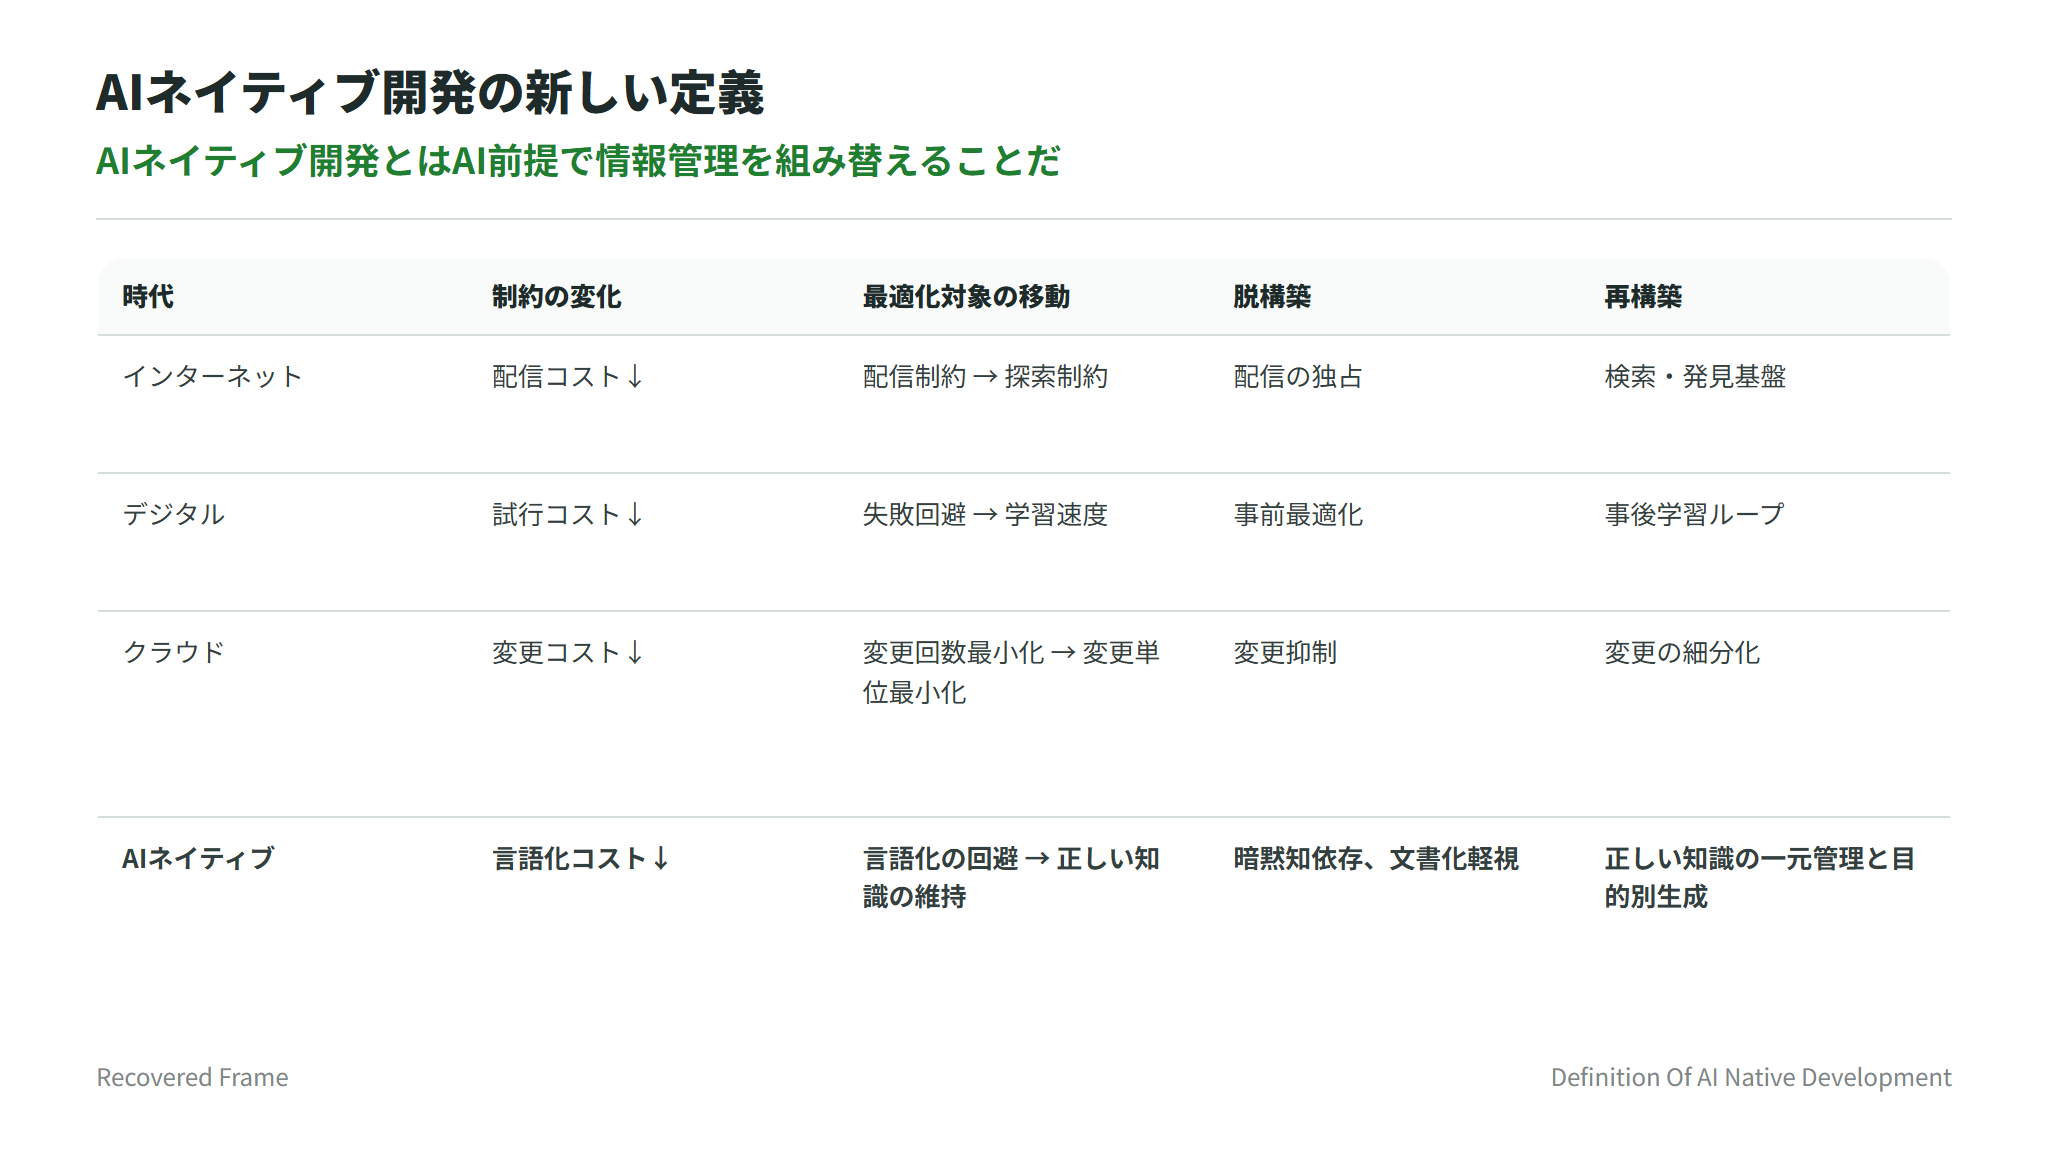
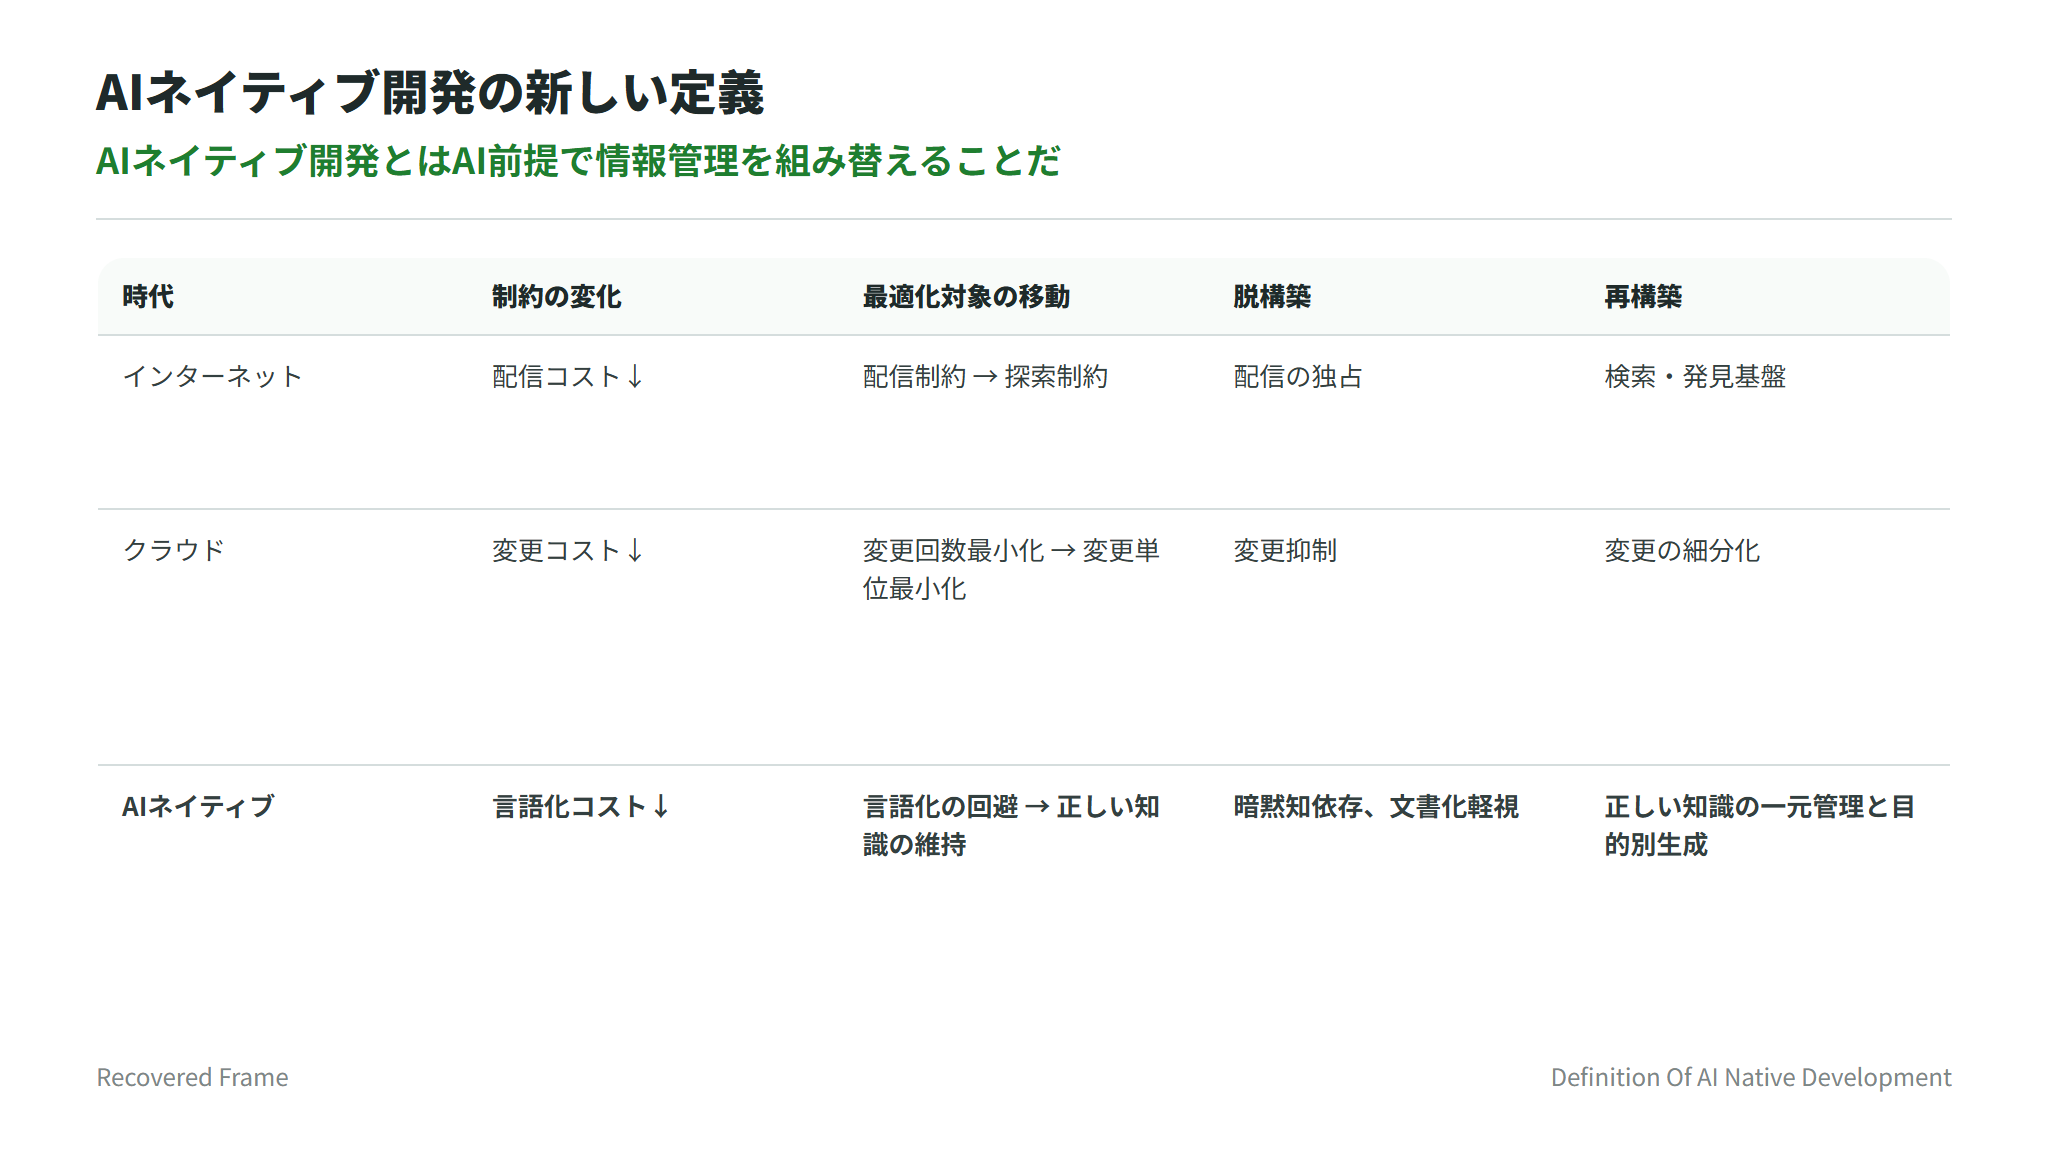
おｋ

diff --git a/docs/projects/20260330_01_AI使い方講義資料作成/clo/prompts/section-6/main-6-04.html b/docs/projects/20260330_01_AI使い方講義資料作成/clo/prompts/section-6/main-6-04.html
@@ -25,7 +25,6 @@
         </thead>
         <tbody>
           <tr><td>インターネット</td><td>配信コスト↓</td><td>配信制約 → 探索制約</td><td>配信の独占</td><td>検索・発見基盤</td></tr>
-          <tr><td>デジタル</td><td>試行コスト↓</td><td>失敗回避 → 学習速度</td><td>事前最適化</td><td>事後学習ループ</td></tr>
           <tr><td>クラウド</td><td>変更コスト↓</td><td>変更回数最小化 → 変更単位最小化</td><td>変更抑制</td><td>変更の細分化</td></tr>
           <tr><td><strong>AIネイティブ</strong></td><td><strong>言語化コスト↓</strong></td><td><strong>言語化の回避 → 正しい知識の維持</strong></td><td><strong>暗黙知依存、文書化軽視</strong></td><td><strong>正しい知識の一元管理と目的別生成</strong></td></tr>
         </tbody>

diff --git a/docs/slide/prompts/section-6/main-6-04.html b/docs/slide/prompts/section-6/main-6-04.html
@@ -25,7 +25,6 @@
         </thead>
         <tbody>
           <tr><td>インターネット</td><td>配信コスト↓</td><td>配信制約 → 探索制約</td><td>配信の独占</td><td>検索・発見基盤</td></tr>
-          <tr><td>デジタル</td><td>試行コスト↓</td><td>失敗回避 → 学習速度</td><td>事前最適化</td><td>事後学習ループ</td></tr>
           <tr><td>クラウド</td><td>変更コスト↓</td><td>変更回数最小化 → 変更単位最小化</td><td>変更抑制</td><td>変更の細分化</td></tr>
           <tr><td><strong>AIネイティブ</strong></td><td><strong>言語化コスト↓</strong></td><td><strong>言語化の回避 → 正しい知識の維持</strong></td><td><strong>暗黙知依存、文書化軽視</strong></td><td><strong>正しい知識の一元管理と目的別生成</strong></td></tr>
         </tbody>

diff --git a/docs/projects/20260330_01_AI使い方講義資料作成/clo/illustrations/section-6/illustration.md b/docs/projects/20260330_01_AI使い方講義資料作成/clo/illustrations/section-6/illustration.md
@@ -55,7 +55,7 @@ Professional presentation slide showing a two-layer architecture diagram. Title:
 - Accent: #7B4BAB (purple)
 **プロンプト**:
 ```
-Professional presentation slide with the title "AIネイティブ開発の定義 — 第0章フレーム回収" in navy. A comparison table with 5 columns: "時代", "制約の変化", "最適化対象の移動", "脱構造", "再構築". Four rows for: "インターネットN", "デジタルN", "クラウドN", and "AIネイティブ". The first three rows are in light gray background. The fourth row "AIネイティブ" is highlighted with a purple background and white text, containing: "言語化コスト↓", "言語化の回避 → 正しい知識の維持", "暗黙知依存、文書化軽視", "正しい知識の一元管理と目的別生成". A subtle decorative arrow on the left side connecting all four rows from top to bottom to show historical progression. White background, navy (#1B2A4A) text, purple (#7B4BAB) highlight for the AIネイティブ row. All text in Japanese.
+Professional presentation slide with the title "AIネイティブ開発の定義 — 第0章フレーム回収" in navy. A comparison table with 5 columns: "時代", "制約の変化", "最適化対象の移動", "脱構築", "再構築". Three rows for: "インターネット", "クラウド", and "AIネイティブ". The first two rows are in light gray background. The third row "AIネイティブ" is highlighted with a purple background and white text, containing: "言語化コスト↓", "言語化の回避 → 正しい知識の維持", "暗黙知依存、文書化軽視", "正しい知識の一元管理と目的別生成". A subtle decorative arrow on the left side connecting all three rows from top to bottom to show historical progression. White background, navy (#1B2A4A) text, purple (#7B4BAB) highlight for the AIネイティブ row. All text in Japanese.
 ```
 
 ---

diff --git a/docs/projects/20260330_01_AI使い方講義資料作成/clo/slide-design-ch6.md b/docs/projects/20260330_01_AI使い方講義資料作成/clo/slide-design-ch6.md
@@ -188,7 +188,6 @@
 | 時代 | 制約の変化 | 最適化対象の移動 | 脱構築 | 再構築 |
 |------|-----------|-----------------|--------|--------|
 | インターネット | 配信コスト↓ | 配信制約 → 探索制約 | 配信の独占 | 検索・発見基盤 |
-| デジタル | 試行コスト↓ | 失敗回避 → 学習速度 | 事前最適化 | 事後学習ループ |
 | クラウド | 変更コスト↓ | 変更回数最小化 → 変更単位最小化 | 変更抑制 | 変更の細分化 |
 | **AIネイティブ** | **言語化コスト↓** | **言語化の回避 → 正しい知識の維持** | **暗黙知依存、文書化軽視** | **正しい知識の一元管理と目的別生成** |
 
@@ -204,9 +203,6 @@
 |  ├────────┼────────┼──────────────┼──────────┼──────────┤      |
 |  │ｲﾝﾀｰﾈｯﾄ│配信    │配信制約       │配信の独占│検索・    │      |
 |  │        │ｺｽﾄ↓   │→探索制約     │          │発見基盤  │      |
-|  ├────────┼────────┼──────────────┼──────────┼──────────┤      |
-|  │デジタル│試行    │失敗回避       │事前最適化│事後学習  │      |
-|  │        │ｺｽﾄ↓   │→学習速度     │          │ループ    │      |
 |  ├────────┼────────┼──────────────┼──────────┼──────────┤      |
 |  │クラウド│変更    │変更回数最小化 │変更抑制  │変更の    │      |
 |  │        │ｺｽﾄ↓   │→変更単位最小化│          │細分化    │      |

diff --git a/docs/projects/20260330_01_AI使い方講義資料作成/clo/presentation-script-part3.md b/docs/projects/20260330_01_AI使い方講義資料作成/clo/presentation-script-part3.md
@@ -119,10 +119,9 @@
 
 ### 6-04: AIネイティブ開発の新しい定義
 
-- **第0章の伏線回収**: 第0章で3つの事例を見ました。インターネットネイティブ、デジタル、クラウド。同じフレームでAIネイティブを整理するとこうなります
+- **第0章の伏線回収**: 第0章で2つの事例を見ました。インターネットネイティブとクラウドネイティブ。同じフレームでAIネイティブを整理するとこうなります
 - **比較表の読み解き（表の各行を上から順に指しながら）**:
   - インターネット: 配信コスト低下 → 配信制約から探索制約へ → 配信の独占が脱構築 → 検索・発見基盤へ再構築
-  - デジタル: 試行コスト低下 → 失敗回避から学習速度へ → 事前最適化が脱構築 → 事後学習ループへ再構築
   - クラウド: 変更コスト低下 → 変更回数最小化から変更単位最小化へ → 変更抑制が脱構築 → 変更の細分化へ再構築
 - **AIネイティブ（最下行を強調して指しながら）**: 言語化コスト低下 → 言語化の回避から正しい知識の維持へ → 暗黙知依存・文書化軽視が脱構築 → 正しい知識の一元管理と目的別生成へ再構築
 - **伏線の完成**: 第0章で意図的に出さなかった4行目が、ここで完成しました。AIネイティブ開発とは、AI前提で情報管理を組み替えることです
